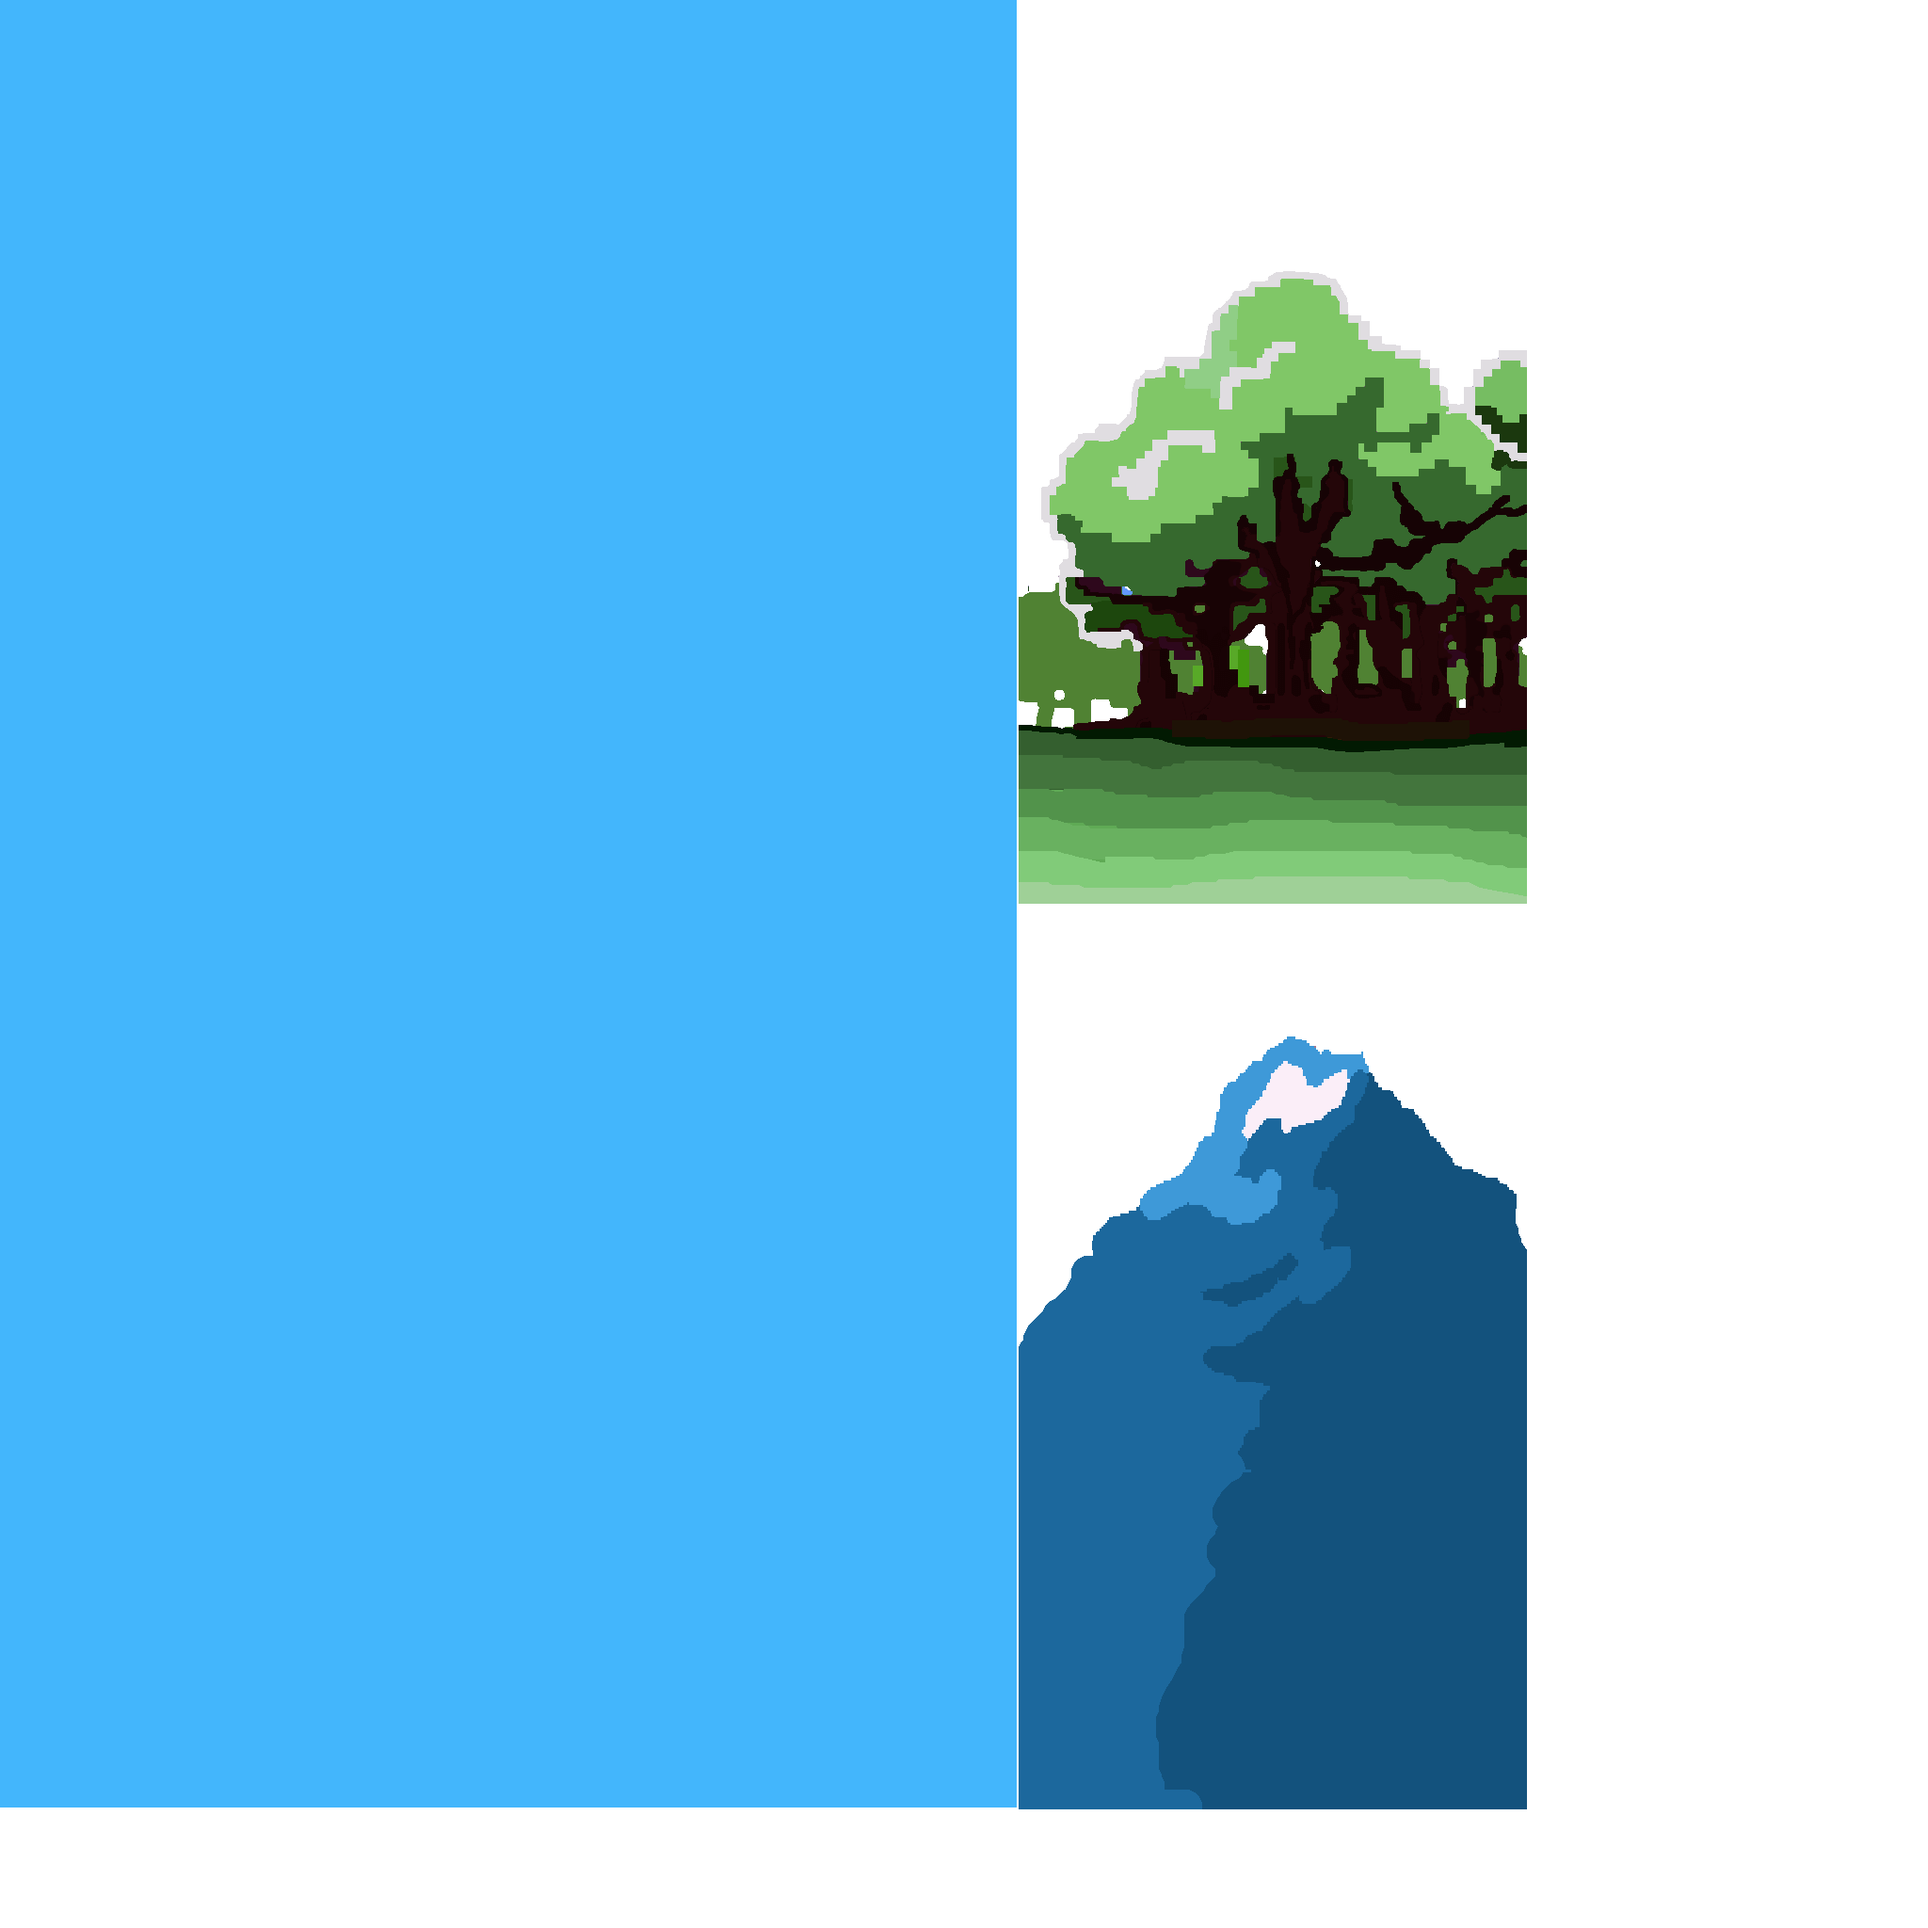
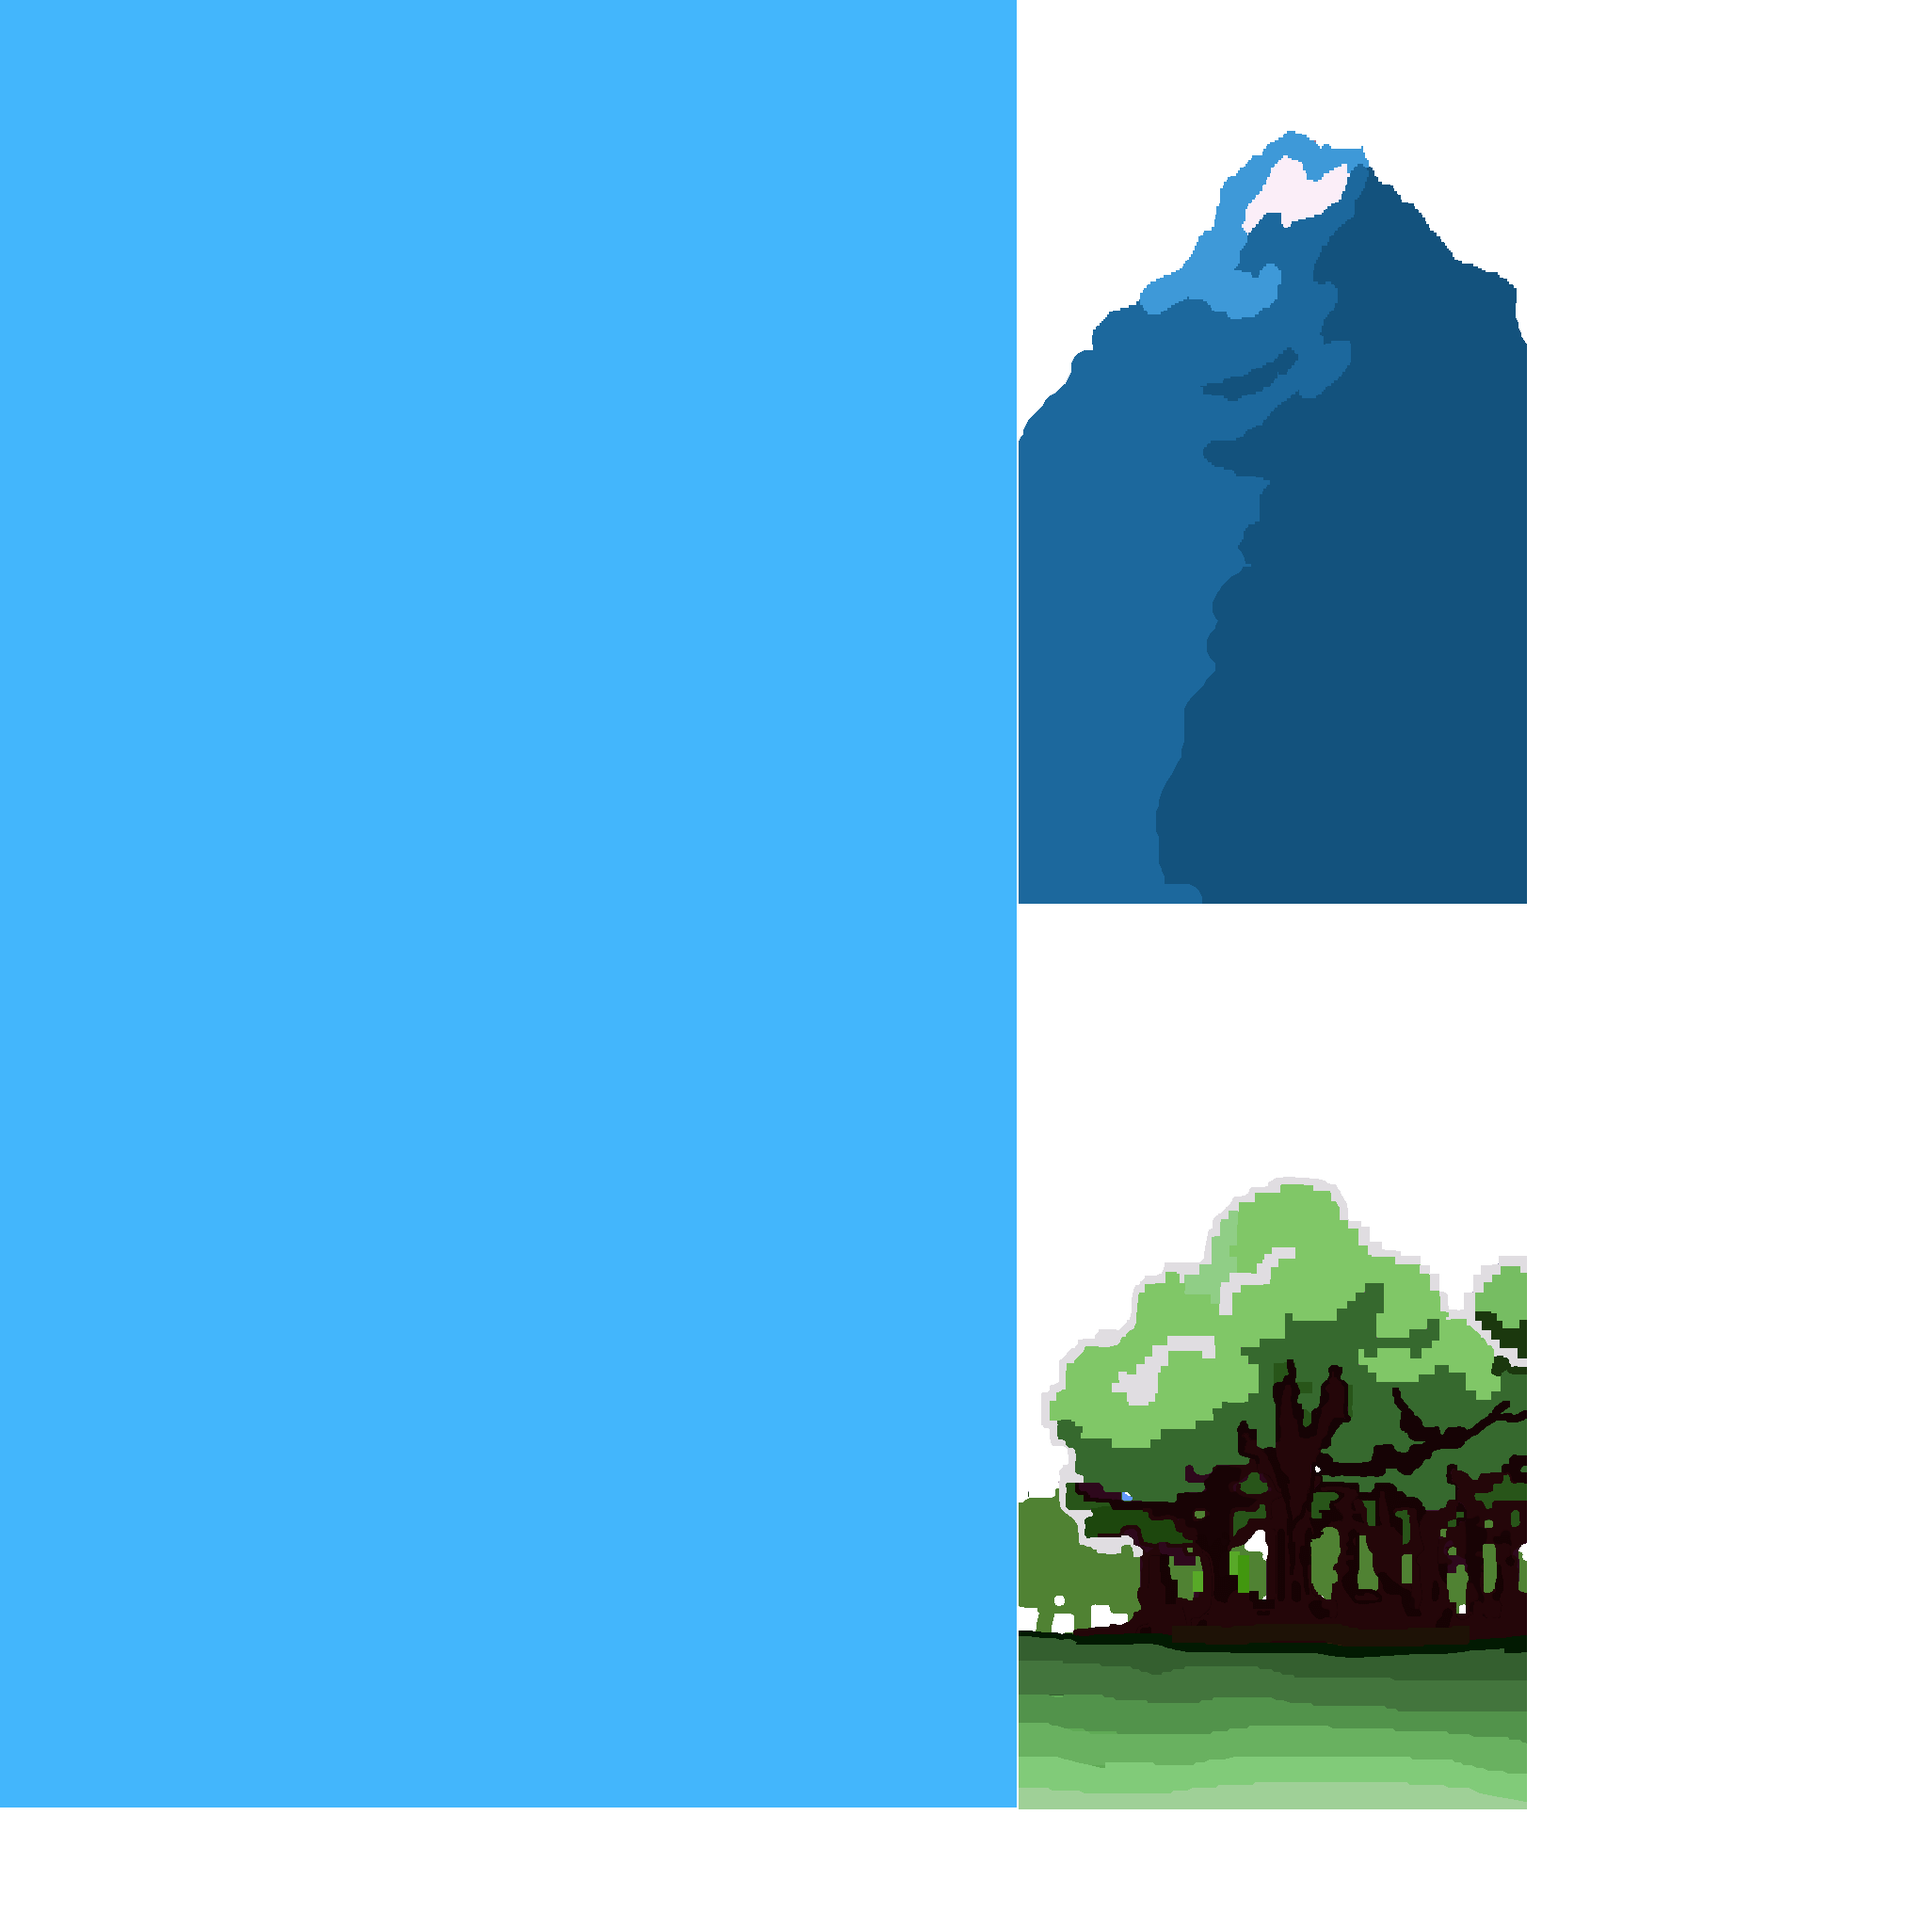
bb

Changed region(s): [[0.5312, 0.5312, 0.8125, 0.9375], [0.5312, 0.0625, 0.8125, 0.4688]]

diff --git a/Game_TakeCoin/Take Coin.js b/Game_TakeCoin/Take Coin.js
@@ -4,7 +4,7 @@ var p; // shortcut to reference prototypes
 var lib={};var ss={};var img={};
 lib.ssMetadata = [
 		{name:"Take Coin_atlas_", frames: [[0,0,1080,1920]]},
-		{name:"Take Coin_atlas_2", frames: [[0,0,1080,1920],[1082,0,540,960],[1082,962,540,960]]},
+		{name:"Take Coin_atlas_2", frames: [[0,0,1080,1920],[1082,962,540,960],[1082,0,540,960]]},
 		{name:"Take Coin_atlas_3", frames: [[443,374,282,63],[0,0,635,254],[0,374,441,145],[759,92,224,64],[759,0,208,90],[443,439,342,42],[0,256,861,116],[727,374,120,21],[727,397,26,26],[969,0,46,46],[863,361,96,104],[863,247,144,112],[637,194,381,51],[637,0,120,192],[985,132,16,48],[985,90,24,40],[969,48,40,40]]}
 ];
 
@@ -957,9 +957,9 @@ lib.properties = {
 	color: "#FFFFFF",
 	opacity: 1.00,
 	manifest: [
-		{src:"images/Take Coin_atlas_.png?1640899653940", id:"Take Coin_atlas_"},
-		{src:"images/Take Coin_atlas_2.png?1640899653940", id:"Take Coin_atlas_2"},
-		{src:"images/Take Coin_atlas_3.png?1640899653940", id:"Take Coin_atlas_3"}
+		{src:"images/Take Coin_atlas_.png?1640908410826", id:"Take Coin_atlas_"},
+		{src:"images/Take Coin_atlas_2.png?1640908410826", id:"Take Coin_atlas_2"},
+		{src:"images/Take Coin_atlas_3.png?1640908410827", id:"Take Coin_atlas_3"}
 	],
 	preloads: []
 };

diff --git a/Game_TakeCoin/Take Coin.html b/Game_TakeCoin/Take Coin.html
@@ -13,15 +13,8 @@
 <meta name="authoring-tool" content="Adobe_Animate_CC">
 <title>Take Coin</title>
 <!-- write your code here -->
-<style>
-  #animation_container {
-	position:absolute;
-	margin:auto;
-	left:0;right:0;
-  }
-</style>
 <script src="https://code.createjs.com/createjs-2015.11.26.min.js"></script>
-<script src="Take Coin.js?1640899653971"></script>
+<script src="Take Coin.js?1640908410860"></script>
 <script>
 var canvas, stage, exportRoot, anim_container, dom_overlay_container, fnStartAnimation;
 function init() {
@@ -67,11 +60,9 @@ function handleComplete(evt,comp) {
 </head>
 <body onload="init();" style="margin:0px;">
 	<div id="animation_container" style="background-color:rgba(255, 255, 255, 1.00); width:540px; height:960px">
-		<canvas id="canvas" width="540" height="960 style="position: absolute; display: block; background-color:rgba(255, 255, 255, 1.00);"></canvas>
+		<canvas id="canvas" width="540" height="960" style="position: absolute; display: block; background-color:rgba(255, 255, 255, 1.00);"></canvas>
 		<div id="dom_overlay_container" style="pointer-events:none; overflow:hidden; width:540px; height:960px; position: absolute; left: 0px; top: 0px; display: block;">
 		</div>
 	</div>
 </body>
 </html>
-
-
